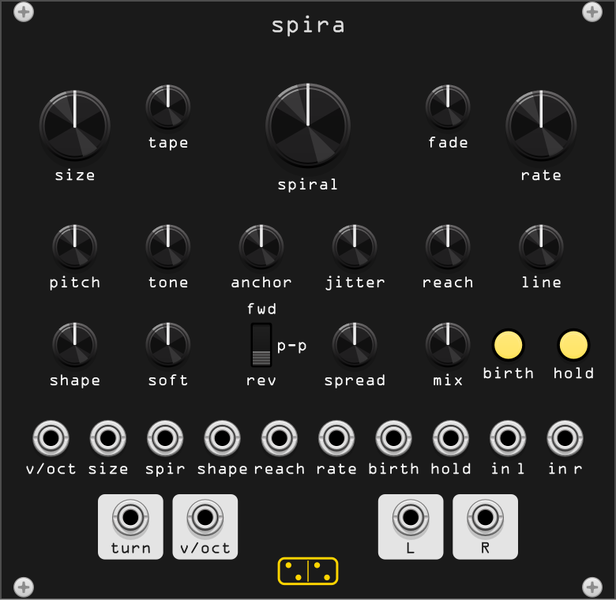
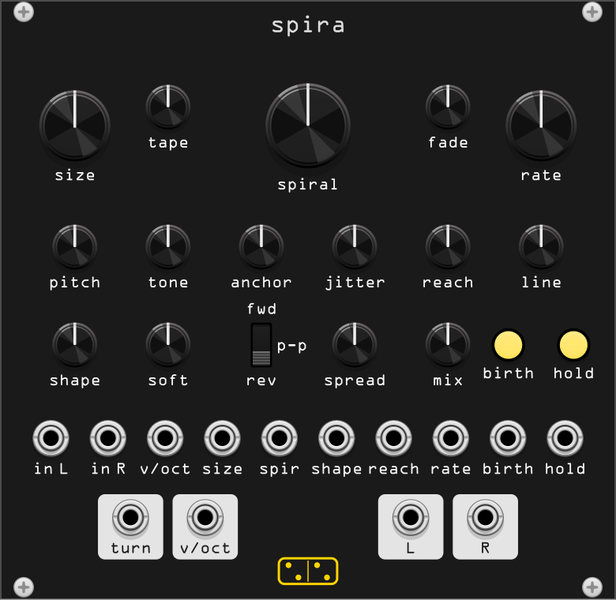
fix(spira): in L and in R are the first two jacks
The stereo input starts the jack row, where the line starts, labelled
in L and in R as the stereo outputs are. Unreleased, so the inputs'
order changes with it.

Claude-Session: https://claude.ai/code/session_01SYmKkk5ugc3NX2Qbio7aJd

diff --git a/src/spira.cpp b/src/spira.cpp
@@ -61,8 +61,8 @@ struct Spira : Module {
         PARAMS_LEN
     };
     enum InputId {
-        VOCT_INPUT, SIZE_INPUT, SPIRAL_INPUT, SHAPE_INPUT, REACH_INPUT, RATE_INPUT,
-        BIRTH_INPUT, HOLD_INPUT, IN_L_INPUT, IN_R_INPUT,
+        IN_L_INPUT, IN_R_INPUT, VOCT_INPUT, SIZE_INPUT, SPIRAL_INPUT, SHAPE_INPUT,
+        REACH_INPUT, RATE_INPUT, BIRTH_INPUT, HOLD_INPUT,
         INPUTS_LEN
     };
     enum OutputId {
@@ -131,6 +131,8 @@ struct Spira : Module {
         configButton(BIRTH_PARAM, "Birth (a circle now)");
         configButton(HOLD_PARAM, "Hold (loop the line)");
 
+        configInput(IN_L_INPUT, "Left");
+        configInput(IN_R_INPUT, "Right (normalled from left)");
         configInput(VOCT_INPUT, "Pitch V/oct");
         configInput(SIZE_INPUT, "Size CV (1 V/oct: +1 V doubles the lap)");
         configInput(SPIRAL_INPUT, "Spiral CV (+-5 V covers the knob)");
@@ -139,8 +141,6 @@ struct Spira : Module {
         configInput(RATE_INPUT, "Rate CV (1 V/oct)");
         configInput(BIRTH_INPUT, "Birth trigger");
         configInput(HOLD_INPUT, "Hold gate");
-        configInput(IN_L_INPUT, "Left");
-        configInput(IN_R_INPUT, "Right (normalled from left)");
         configOutput(TURN_OUTPUT, "Turn (each lap of the newest circle)");
         configOutput(VOCT_OUTPUT, "Speed of the newest circle, V/oct");
         configOutput(OUT_L_OUTPUT, "Left");
@@ -316,6 +316,8 @@ struct SpiraWidget : ModuleWidget {
 // @elem MIX_PARAM RoundBlackKnob 4.8 param "" 0.0
 // @elem BIRTH_PARAM VCVLightBezel 3.6 param "" 0.0 light=BIRTH_LIGHT
 // @elem HOLD_PARAM VCVLightBezel 3.6 param "" 0.0 light=HOLD_LIGHT
+// @elem IN_L_INPUT PJ301MPort 4.01 input "" 0.0
+// @elem IN_R_INPUT PJ301MPort 4.01 input "" 0.0
 // @elem VOCT_INPUT PJ301MPort 4.01 input "" 0.0
 // @elem SIZE_INPUT PJ301MPort 4.01 input "" 0.0
 // @elem SPIRAL_INPUT PJ301MPort 4.01 input "" 0.0
@@ -324,8 +326,6 @@ struct SpiraWidget : ModuleWidget {
 // @elem RATE_INPUT PJ301MPort 4.01 input "" 0.0
 // @elem BIRTH_INPUT PJ301MPort 4.01 input "" 0.0
 // @elem HOLD_INPUT PJ301MPort 4.01 input "" 0.0
-// @elem IN_L_INPUT PJ301MPort 4.01 input "" 0.0
-// @elem IN_R_INPUT PJ301MPort 4.01 input "" 0.0
 // @elem TURN_OUTPUT PJ301MPort 4.01 output "" 0.0
 // @elem VOCT_OUTPUT PJ301MPort 4.01 output "" 0.0
 // @elem OUT_L_OUTPUT PJ301MPort 4.01 output "" 0.0
@@ -350,16 +350,16 @@ struct SpiraWidget : ModuleWidget {
 // @elem LABEL_MIX label 0.0 label "mix" 0.0 96.04 82.50
 // @elem LABEL_BIRTH label 0.0 label "birth" 0.0 109.00 81.00
 // @elem LABEL_HOLD label 0.0 label "hold" 0.0 123.00 81.00
-// @elem LABEL_VOCT_IN label 0.0 label "v/oct" 0.0 10.92 101.50
-// @elem LABEL_SIZE_IN label 0.0 label "size" 0.0 23.17 101.50
-// @elem LABEL_SPIRAL_IN label 0.0 label "spir" 0.0 35.42 101.50
-// @elem LABEL_SHAPE_IN label 0.0 label "shape" 0.0 47.67 101.50
-// @elem LABEL_REACH_IN label 0.0 label "reach" 0.0 59.92 101.50
-// @elem LABEL_RATE_IN label 0.0 label "rate" 0.0 72.17 101.50
-// @elem LABEL_BIRTH_IN label 0.0 label "birth" 0.0 84.42 101.50
-// @elem LABEL_HOLD_IN label 0.0 label "hold" 0.0 96.67 101.50
-// @elem LABEL_IN_L label 0.0 label "in l" 0.0 108.92 101.50
-// @elem LABEL_IN_R label 0.0 label "in r" 0.0 121.17 101.50
+// @elem LABEL_IN_L label 0.0 label "in L" 0.0 10.92 101.50
+// @elem LABEL_IN_R label 0.0 label "in R" 0.0 23.17 101.50
+// @elem LABEL_VOCT_IN label 0.0 label "v/oct" 0.0 35.42 101.50
+// @elem LABEL_SIZE_IN label 0.0 label "size" 0.0 47.67 101.50
+// @elem LABEL_SPIRAL_IN label 0.0 label "spir" 0.0 59.92 101.50
+// @elem LABEL_SHAPE_IN label 0.0 label "shape" 0.0 72.17 101.50
+// @elem LABEL_REACH_IN label 0.0 label "reach" 0.0 84.42 101.50
+// @elem LABEL_RATE_IN label 0.0 label "rate" 0.0 96.67 101.50
+// @elem LABEL_BIRTH_IN label 0.0 label "birth" 0.0 108.92 101.50
+// @elem LABEL_HOLD_IN label 0.0 label "hold" 0.0 121.17 101.50
 // @elem BOX_TURN panel_box 7.0 box "" 0.0 28.00 113.00
 // @elem LABEL_TURN_OUT label 0.0 label "turn" 0.0 28.00 118.50
 // @elem BOX_VOCT panel_box 7.0 box "" 0.0 44.00 113.00
@@ -392,16 +392,16 @@ struct SpiraWidget : ModuleWidget {
         addParam(createParamCentered<RoundBlackKnob>(mm2px(Vec(96.04f, 74.00f)), module, Spira::MIX_PARAM));
         addParam(createLightParamCentered<VCVLightBezel<YellowLight>>(mm2px(Vec(109.00f, 74.00f)), module, Spira::BIRTH_PARAM, Spira::BIRTH_LIGHT));
         addParam(createLightParamCentered<VCVLightBezel<YellowLight>>(mm2px(Vec(123.00f, 74.00f)), module, Spira::HOLD_PARAM, Spira::HOLD_LIGHT));
-        addInput(createInputCentered<PJ301MPort>(mm2px(Vec(10.92f, 94.00f)), module, Spira::VOCT_INPUT));
-        addInput(createInputCentered<PJ301MPort>(mm2px(Vec(23.17f, 94.00f)), module, Spira::SIZE_INPUT));
-        addInput(createInputCentered<PJ301MPort>(mm2px(Vec(35.42f, 94.00f)), module, Spira::SPIRAL_INPUT));
-        addInput(createInputCentered<PJ301MPort>(mm2px(Vec(47.67f, 94.00f)), module, Spira::SHAPE_INPUT));
-        addInput(createInputCentered<PJ301MPort>(mm2px(Vec(59.92f, 94.00f)), module, Spira::REACH_INPUT));
-        addInput(createInputCentered<PJ301MPort>(mm2px(Vec(72.17f, 94.00f)), module, Spira::RATE_INPUT));
-        addInput(createInputCentered<PJ301MPort>(mm2px(Vec(84.42f, 94.00f)), module, Spira::BIRTH_INPUT));
-        addInput(createInputCentered<PJ301MPort>(mm2px(Vec(96.67f, 94.00f)), module, Spira::HOLD_INPUT));
-        addInput(createInputCentered<PJ301MPort>(mm2px(Vec(108.92f, 94.00f)), module, Spira::IN_L_INPUT));
-        addInput(createInputCentered<PJ301MPort>(mm2px(Vec(121.17f, 94.00f)), module, Spira::IN_R_INPUT));
+        addInput(createInputCentered<PJ301MPort>(mm2px(Vec(10.92f, 94.00f)), module, Spira::IN_L_INPUT));
+        addInput(createInputCentered<PJ301MPort>(mm2px(Vec(23.17f, 94.00f)), module, Spira::IN_R_INPUT));
+        addInput(createInputCentered<PJ301MPort>(mm2px(Vec(35.42f, 94.00f)), module, Spira::VOCT_INPUT));
+        addInput(createInputCentered<PJ301MPort>(mm2px(Vec(47.67f, 94.00f)), module, Spira::SIZE_INPUT));
+        addInput(createInputCentered<PJ301MPort>(mm2px(Vec(59.92f, 94.00f)), module, Spira::SPIRAL_INPUT));
+        addInput(createInputCentered<PJ301MPort>(mm2px(Vec(72.17f, 94.00f)), module, Spira::SHAPE_INPUT));
+        addInput(createInputCentered<PJ301MPort>(mm2px(Vec(84.42f, 94.00f)), module, Spira::REACH_INPUT));
+        addInput(createInputCentered<PJ301MPort>(mm2px(Vec(96.67f, 94.00f)), module, Spira::RATE_INPUT));
+        addInput(createInputCentered<PJ301MPort>(mm2px(Vec(108.92f, 94.00f)), module, Spira::BIRTH_INPUT));
+        addInput(createInputCentered<PJ301MPort>(mm2px(Vec(121.17f, 94.00f)), module, Spira::HOLD_INPUT));
         addOutput(createOutputCentered<PJ301MPort>(mm2px(Vec(28.00f, 111.00f)), module, Spira::TURN_OUTPUT));
         addOutput(createOutputCentered<PJ301MPort>(mm2px(Vec(44.00f, 111.00f)), module, Spira::VOCT_OUTPUT));
         addOutput(createOutputCentered<PJ301MPort>(mm2px(Vec(88.08f, 111.00f)), module, Spira::OUT_L_OUTPUT));

diff --git a/doc/spira.md b/doc/spira.md
@@ -31,7 +31,7 @@ circles sound at once, each at a different stage of its spiral.
 | top | **size**, **tape**, the **spiral** knob, **fade**, **rate** |
 | second | **pitch**, **tone**, **anchor**, **jitter**, **reach**, **line** |
 | third | **shape**, **soft**, the direction switch **fwd / p-p / rev**, **spread**, **mix**, **birth**, **hold** |
-| jacks | inputs **v/oct**, **size**, **spir**, **shape**, **reach**, **rate**, **birth**, **hold**, **in l**, **in r**; outputs **turn**, **v/oct**, **L**, **R** |
+| jacks | inputs **in L**, **in R**, **v/oct**, **size**, **spir**, **shape**, **reach**, **rate**, **birth**, **hold**; outputs **turn**, **v/oct**, **L**, **R** |
 
 ## The spiral
 
@@ -81,7 +81,7 @@ instead of clipping.
 
 | jack | function |
 |---|---|
-| **in l**, **in r** | the line. **in r** is normalled from **in l** |
+| **in L**, **in R** | the line. **in R** is normalled from **in L** |
 | **v/oct** in | added to **pitch** |
 | **size** in | 1 V/oct on **size**: +1 V doubles the first lap |
 | **spir**, **shape** in | added to their knobs: +-5 V covers the travel |
